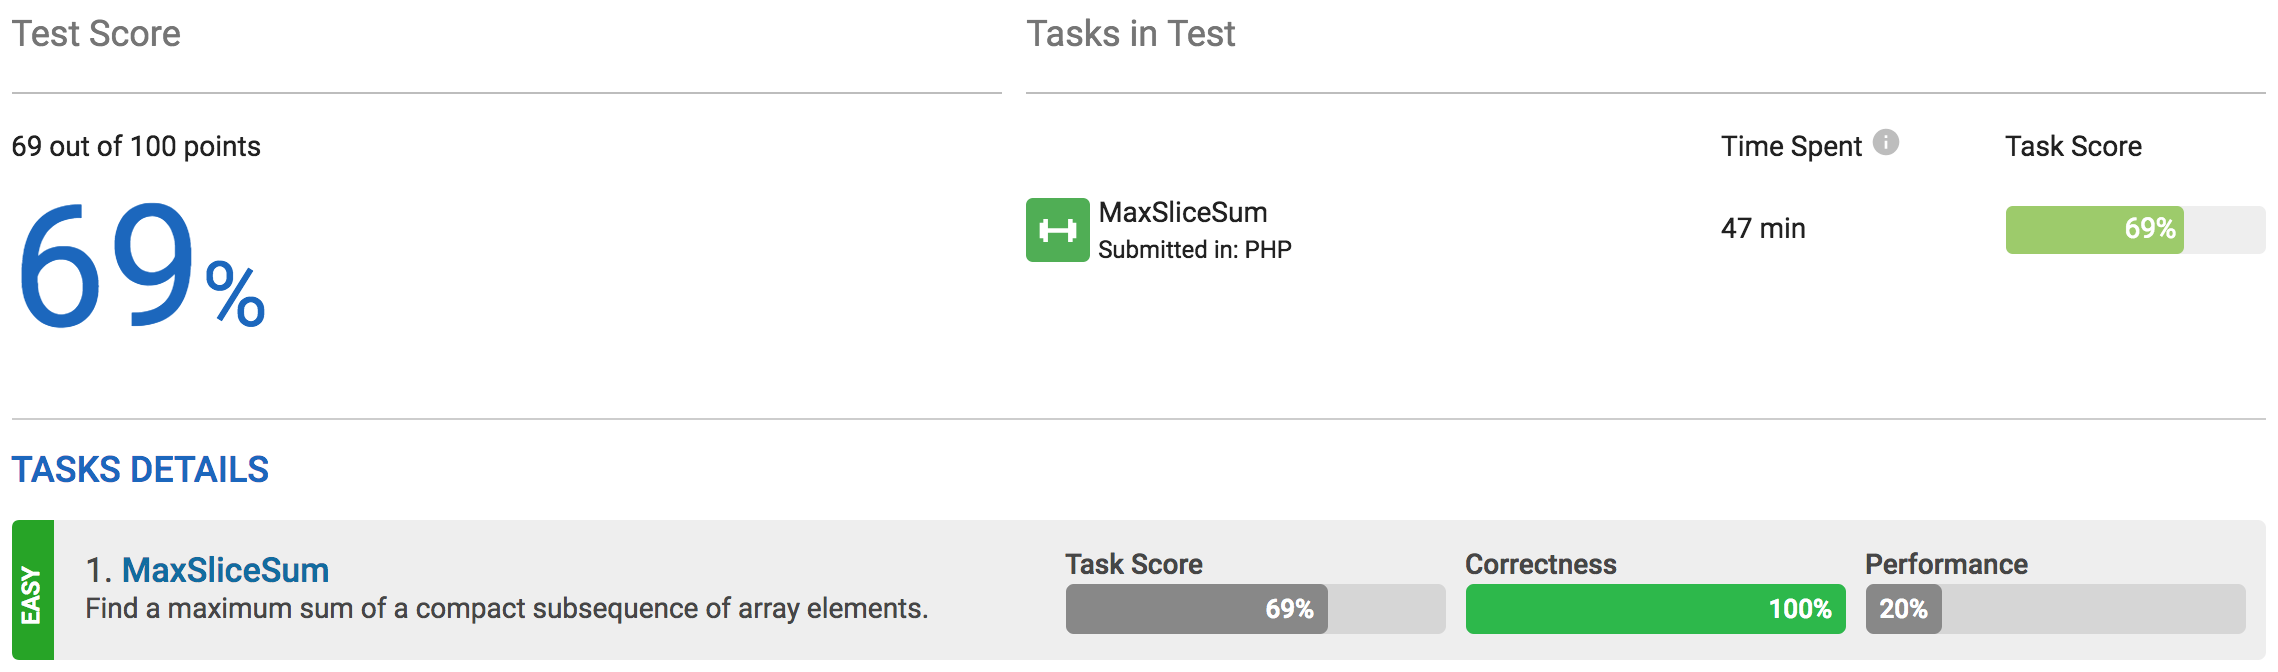
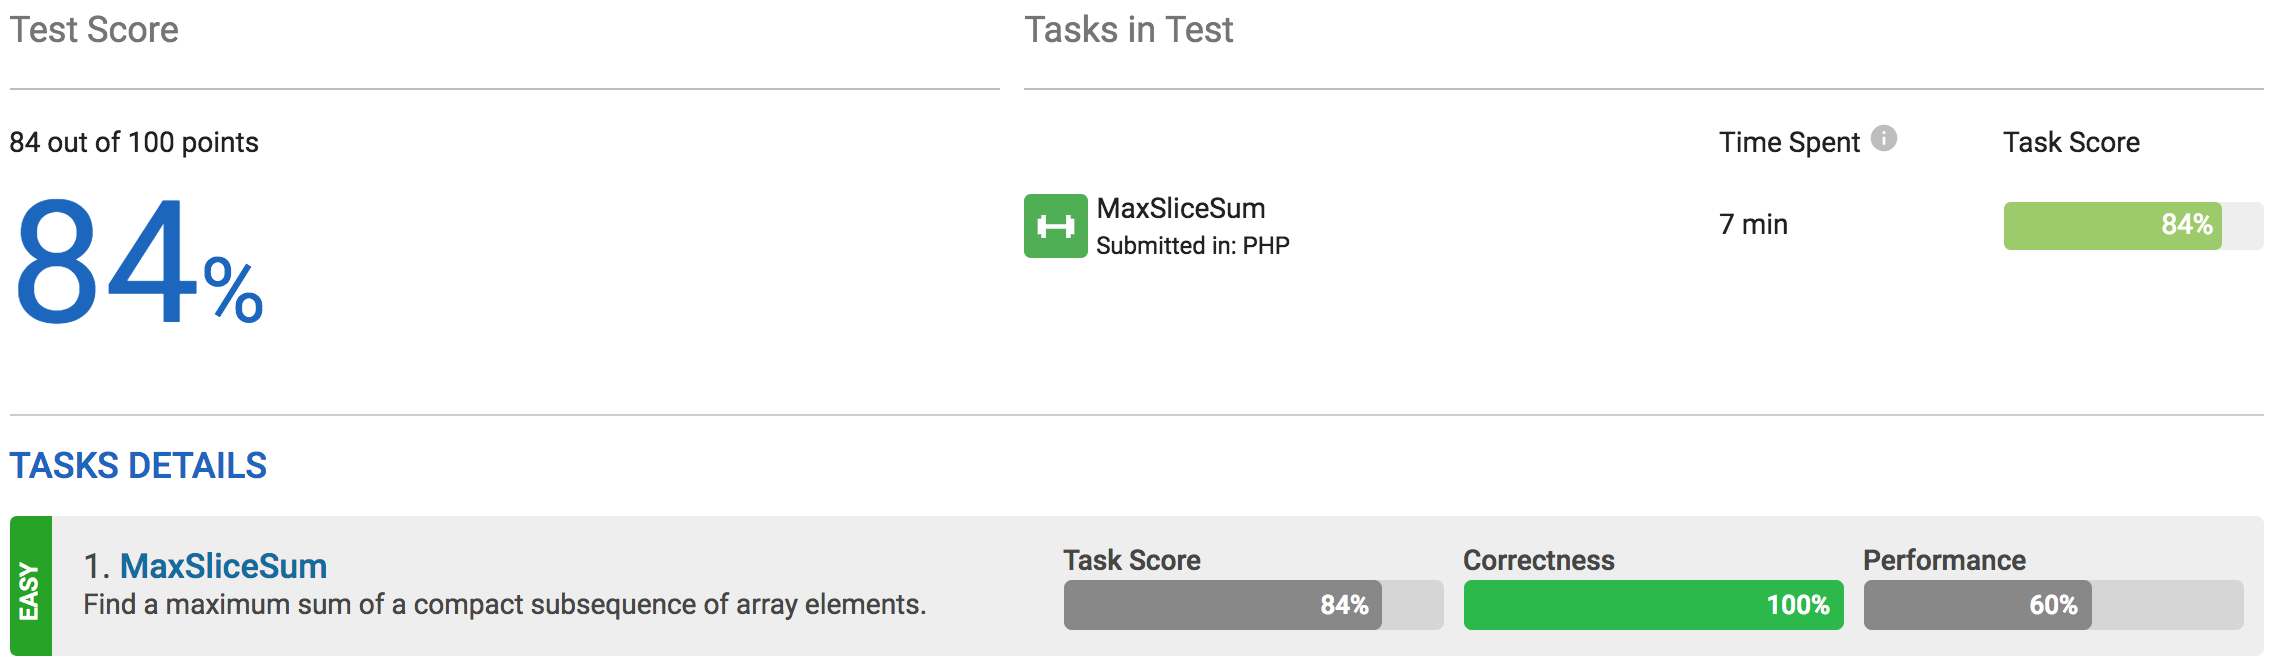
Result_2 for MaxSliceSum of Lesson_9_MaximumSliceProblem.

diff --git a/Lessons/9_MaximumSliceProblem/Tasks_MaxSliceSum/Answer.php b/Lessons/9_MaximumSliceProblem/Tasks_MaxSliceSum/Answer.php
@@ -10,7 +10,8 @@ function solution($A) {
 
     if ($arrLength === 1) return $A[0];
 
-    $sumArray = [];
+    $max = 0;
+    $maxArray = [];
 
     for ($i = 0; $i < $arrLength; $i++)
     {
@@ -18,39 +19,23 @@ function solution($A) {
 
         // take N element/time
         $tmp = 0;
-        $tmpArray = [];
 
         for ($j = $i; $j < $arrLength; $j++)
         {
-            if ($j === $i)
+            if ($i === 0 && $j === $i)
             {
                 $tmp = $A[$j];
-
-                $tmpArray[0] = [$i, $j];
-                $tmpArray[1] = $tmp;
-
-                $sumArray[] = $tmpArray;
+                $max = $tmp;
 
                 continue;
             }
             
             $tmp += $A[$j];
 
-            $tmpArray[0] = [$i, $j];
-            $tmpArray[1] = $tmp;
-
-            $sumArray[] = $tmpArray;
-        }
-    }
-
-    $max = 0;
-    $kLimit = sizeof($sumArray);
-
-    for ($k = 0; $k < $kLimit; $k++)
-    {
-        if ($k === 0 || $sumArray[$k][1] > $max)
-        {
-            $max = $sumArray[$k][1];
+            if ($tmp > $max)
+            {
+                $max = $tmp;
+            }
         }
     }
 
